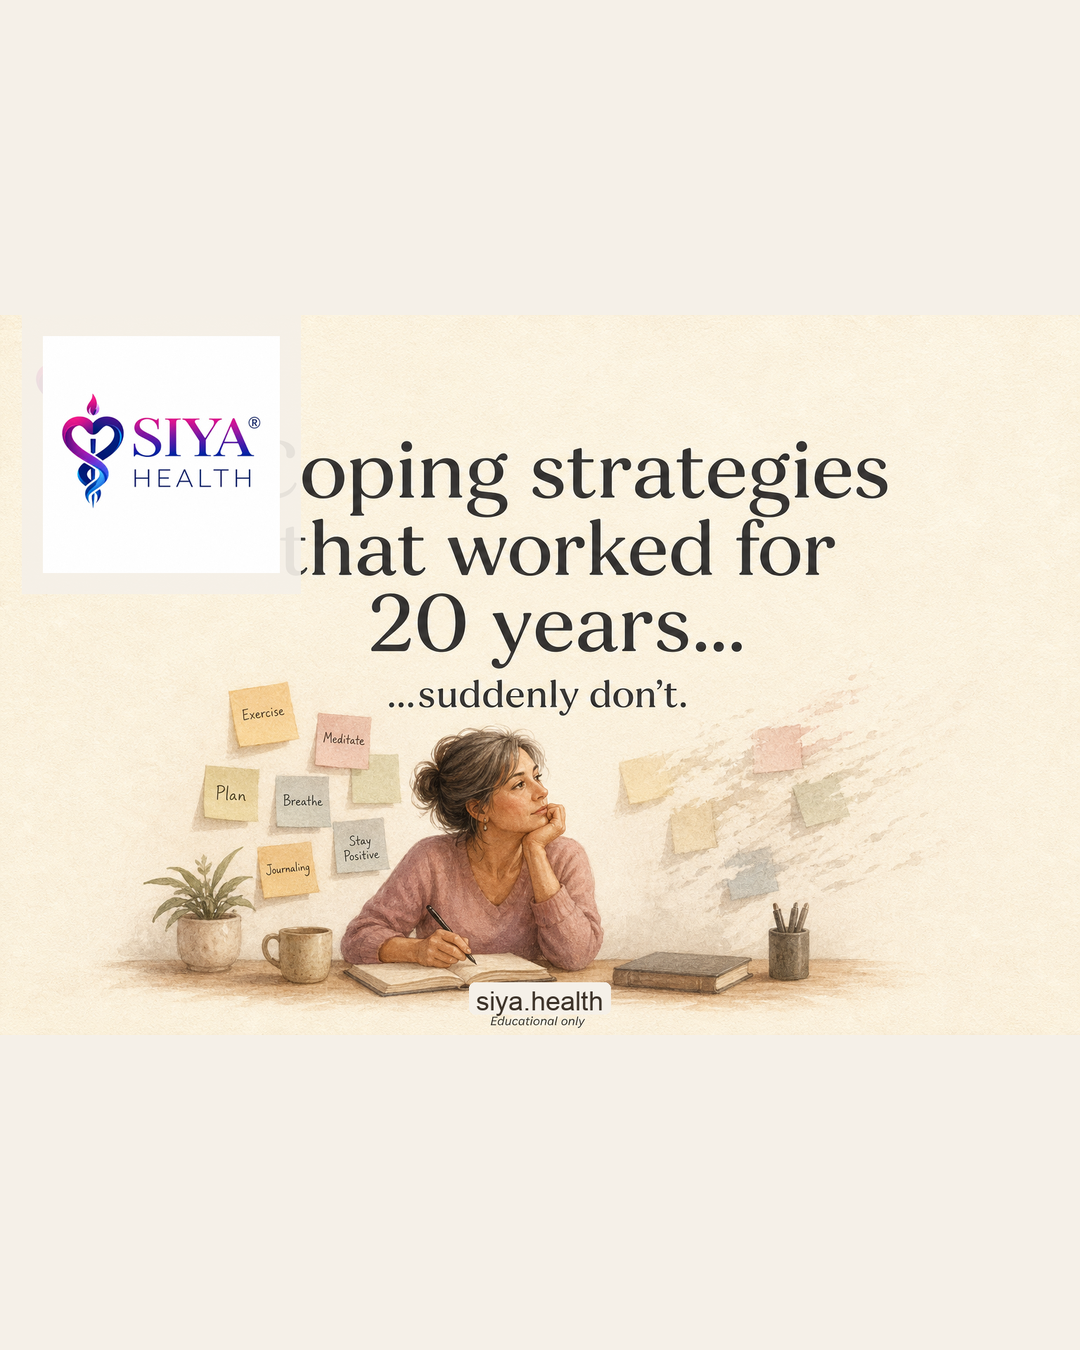
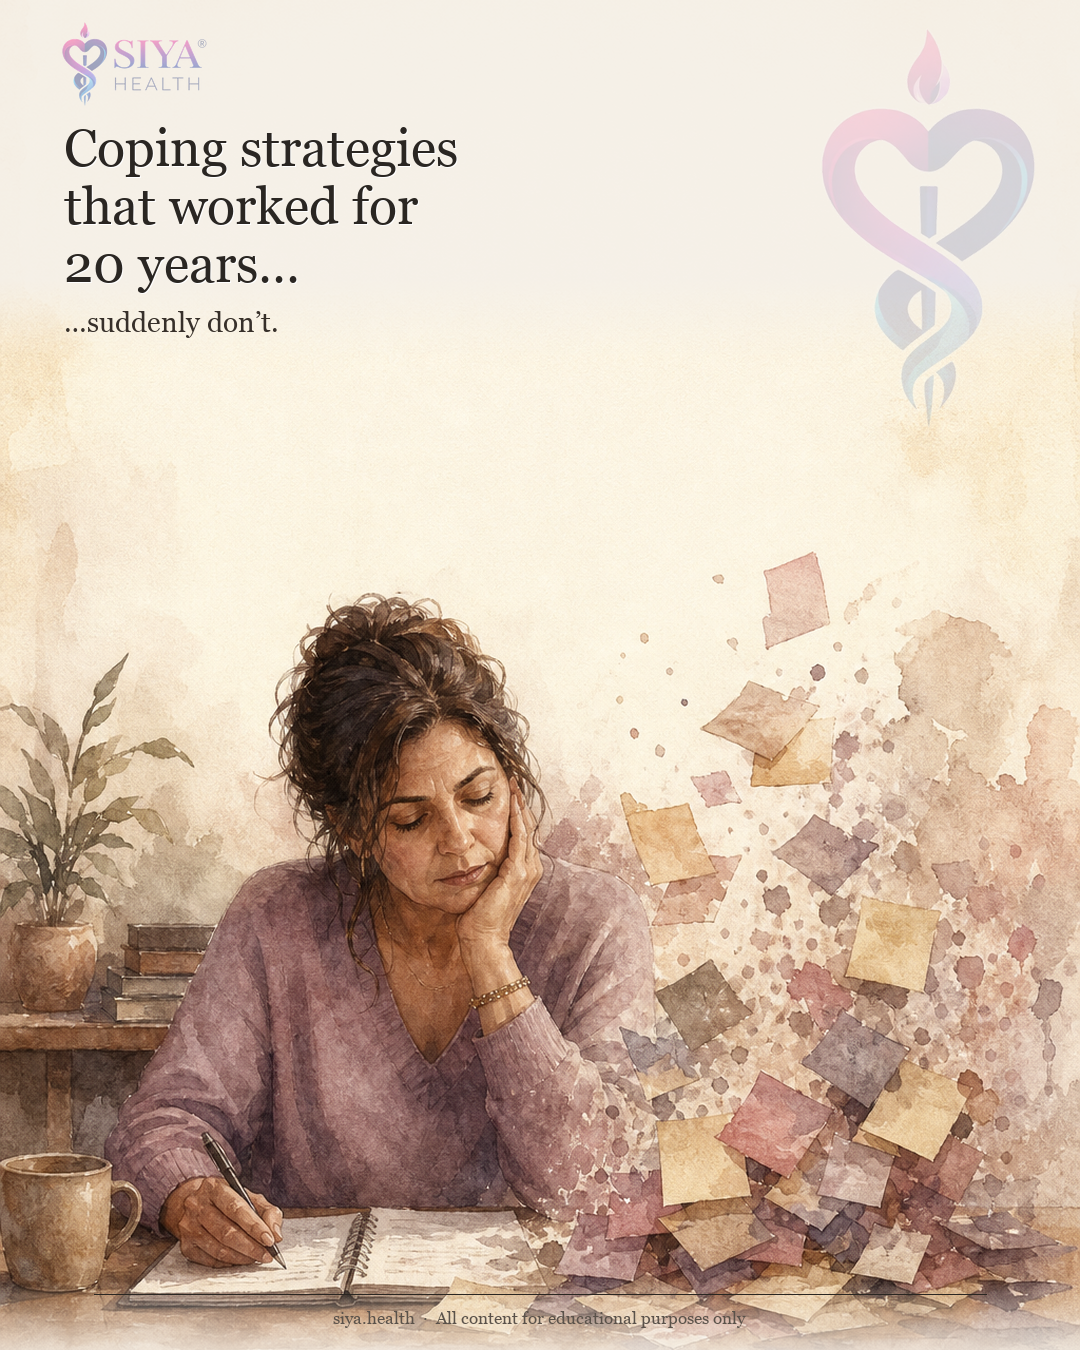
content(siya-health): WH-R-02 v2 — useful carousel + editorial usefulness gate
Require ≥1 evidence-based practical change on company/social; regenerate
IG slides with 14-day log → clinician iron/thyroid/sleep/mood ask.

diff --git a/apps/siya-health/brand/editorial-packs/WH-R-02/carousel.md b/apps/siya-health/brand/editorial-packs/WH-R-02/carousel.md
@@ -1,71 +1,72 @@
-# Instagram Carousel — WH-R-02
+# Instagram Carousel — WH-R-02 (v2 — useful)
 
-**Format:** 4:5 · 6 slides · warm editorial · Siya cream/soft earth tones · quiet logo corner · no stock clinic clichés
+**Format:** 4:5 · 6 slides · submerged logo · quiet footer  
+**Design:** `brand/INSTAGRAM-STATIC.md`  
+**Gate:** Recognition + explanation + **≥1 practical change** (Editorial Test)
+
+**Practical change (this pack):**  
+For 14 days, log sleep, heavy bleeding, and when fog is worst → bring the log to a clinician and ask to evaluate iron/ferritin, thyroid, sleep, and mood — not “stress” alone.
 
 ---
 
 ## Slide 1 — Hook
-**Copy (large):**
+**Copy:**
 Coping strategies that worked for 20 years…
+suddenly don’t.
 
-**Support (small):**
-…suddenly don’t.
-
-**Image prompt:** See `image-prompts.md` Slide 1
+**Support:** (none — let image carry)
 
 ---
 
-## Slide 2 — Recognition
+## Slide 2 — Recognition → useful frame
 **Copy:**
-“I used to hold everything in my head.”
+You’re not failing at adulting.
 
 **Support:**
-Now you walk into a room and forget why you’re there.
-
-**Image prompt:** Slide 2
+When planners, lists, and willpower stop working in your 40s, something in the system may have changed.
 
 ---
 
-## Slide 3 — Systems
+## Slide 3 — Explanation
 **Copy:**
-What if it’s not one department?
-
-**Support (list or nodes):**
-Sleep · Iron · Mood · Hormones · Attention
-
-**Image prompt:** Slide 3
-
----
-
-## Slide 4 — Contradiction
-**Copy:**
-Medicine is good at splitting humans into appointments.
+Midlife fog rarely has one cause.
 
 **Support:**
-Midlife rarely arrives that way.
-
-**Image prompt:** Slide 4
+Sleep · Iron · Mood · Hormones · Attention  
+can all move at once — so “try harder” often fails.
 
 ---
 
-## Slide 5 — Curiosity
+## Slide 4 — Practical change (part 1)
 **Copy:**
-Maybe the seams are just showing.
+Don’t add another planner first.
 
 **Support:**
-Not a character flaw. A systems question.
-
-**Image prompt:** Slide 5
+For 14 days, jot three things: hours slept, heavy bleeding (Y/N), and when fog hits hardest.
 
 ---
 
-## Slide 6 — Path (company CTA only)
+## Slide 5 — Practical change (part 2) ← the useful ask
+**Copy:**
+Bring that log to a clinician.
+
+**Support:**
+Ask them to check iron/ferritin, thyroid, sleep, and mood — not “stress” alone.  
+(Common reversible contributors to midlife brain fog.)
+
+---
+
+## Slide 6 — Path
 **Copy:**
 Women’s Midlife Health
 
 **Support:**
 Brain · Hormones · Metabolism  
-Start with Perimenopause & Brain Fog  
+Read Perimenopause & Brain Fog  
 siya.health/womens-midlife-health
 
-**Image prompt:** Slide 6
+---
+
+## Claim ladder
+Safe: pattern tracking; request evaluation of iron/thyroid/sleep/mood; systems framing.  
+Avoid: DIY stimulant dosing; HRT treats ADHD; hormones cause ADHD; guaranteed diagnosis.

diff --git a/apps/siya-health/brand/knowledge-pillars/EDITORIAL-TEST.md b/apps/siya-health/brand/knowledge-pillars/EDITORIAL-TEST.md
@@ -8,21 +8,35 @@ Before publishing anything, ask:
 
 1. **Does this improve a Knowledge Product?**
 2. **Does this help someone recognize themselves?**
-3. **Would we still be proud of this in three years?**
-4. **Does this teach something competitors don't?**
-5. **Does this build trust instead of attention?**
+3. **Is this useful — not just resonant?**
+4. **Does it include at least one practical change** someone can make (habit, question to ask a clinician, tracking step, or decision rule) grounded in **evidence-based medicine** / accepted clinical guidelines — without DIY dosing or overclaim?
+5. **Would we still be proud of this in three years?**
+6. **Does this teach something competitors don't?**
+7. **Does this build trust instead of attention?**
 
 If any answer is no — don't publish.
 
+**Usefulness rule (locked 2026-07-21):**  
+Recognition alone is not enough for company/social carousels and educational posts. Every piece must leave the reader with **≥1 concrete next step** they can act on. Vague inspiration (“trust the process,” “listen to your body”) without a specific action fails this test.
+
+Safe practical patterns:
+- Track X for N days, then bring it to a clinician  
+- Ask for evaluation of Y (labs/screens named carefully)  
+- Stop doing Z when A is happening; do W instead  
+- Read spoke → book Meet & Greet (company channels only)
+
+Never: DIY stimulant/HRT protocols, “hormones cause ADHD,” guaranteed diagnosis language.
+
 ---
 
-**Editorial slogan:** Recognition > Expertise
+**Editorial slogan:** Recognition > Expertise  
+**Company/social addendum:** Recognition without a useful next step is incomplete.
 
 **Emotional arc (default):**
 
 ```text
-Recognition → Curiosity → Explanation → Evidence → Treatment → Relationship
+Recognition → Curiosity → Explanation → Evidence → Practical change → Relationship
 ```
 
-Founder LinkedIn may stop at Curiosity / open question.  
-Company / social may continue gently toward Relationship (care).
+Founder LinkedIn may stop at Curiosity / open question (no CTA).  
+Company / social must include the practical change and may continue gently toward Relationship (care).

diff --git a/apps/siya-health/brand/editorial-packs/WH-R-02/instagram.md b/apps/siya-health/brand/editorial-packs/WH-R-02/instagram.md
@@ -1,6 +1,6 @@
 # Instagram — Caption + Hashtags
 
-**Status:** READY TO PUBLISH with carousel.md  
+**Status:** READY TO PUBLISH with carousel v2  
 **Link in bio / story:** https://siya.health/blog/perimenopause-brain-fog  
 **Also:** https://siya.health/womens-midlife-health
 
@@ -11,20 +11,16 @@
 Coping strategies that worked for 20 years…
 suddenly don’t.
 
-If you’re in your 40s and the systems that used to hold your life together feel unreliable—you’re not alone, and you’re not “bad at adulting.”
+If you’re in your 40s and the systems that used to hold your life together feel unreliable—you’re not “bad at adulting.” Midlife fog often sits at an intersection: sleep, iron, mood, hormones, attention.
 
-Midlife fog often sits at an intersection:
-sleep · hormones · iron · mood · attention
-
-Medicine likes departments.
-People don’t arrive that way.
+**One practical step:** For 14 days, jot sleep hours, heavy bleeding (Y/N), and when fog is worst. Bring that log to a clinician and ask to evaluate iron/ferritin, thyroid, sleep, and mood — not “stress” alone.
 
 Slide through → then read Women’s Midlife Health + Perimenopause & Brain Fog (link in bio).
 
-Educational only. Not a diagnosis.
+Educational only. Not a diagnosis. Individual care requires your clinician.
 
 ---
 
 ## Hashtags (mix; don’t dump all)
 
-#Perimenopause #BrainFog #WomensHealth #MidlifeHealth #SystemsMedicine #ADHDWomen #HormoneHealth #SiyaHealth
+#Perimenopause #BrainFog #WomensHealth #MidlifeHealth #SystemsMedicine #IronDeficiency #ThyroidHealth #ADHDWomen #HormoneHealth #SiyaHealth

diff --git a/apps/siya-health/brand/editorial-packs/WH-R-02/images/ready/README.md b/apps/siya-health/brand/editorial-packs/WH-R-02/images/ready/README.md
@@ -1,16 +1,16 @@
-# WH-R-02 Instagram carousel — READY TO POST
+# WH-R-02 Instagram carousel — READY TO POST (v2)
 
-Real Siya logo composited. Text burned into images. Domain on slides.
+Design: submerged logo + quiet footer (`brand/INSTAGRAM-STATIC.md`)
+Copy: useful arc with practical change (14-day log → clinician ask)
 
 | File | Content |
 |------|---------|
-| slide-01-ready.png | Coping strategies that worked for 20 years… |
-| slide-02-ready.png | I used to hold everything in my head. |
-| slide-03-ready.png | What if it's not one department? |
-| slide-04-ready.png | Medicine is good at splitting humans into appointments. |
-| slide-05-ready.png | Maybe the seams are just showing. |
-| slide-06-ready.png | Women's Midlife Health + siya.health/womens-midlife-health |
+| slide-01-ready.png | Coping strategies… suddenly don’t. |
+| slide-02-ready.png | You’re not failing at adulting. |
+| slide-03-ready.png | Midlife fog rarely has one cause. |
+| slide-04-ready.png | Don’t add another planner first. (14-day log) |
+| slide-05-ready.png | Bring that log to a clinician. (iron/thyroid/sleep/mood) |
+| slide-06-ready.png | Women’s Midlife Health + hub URL |
 
 Caption: ../instagram.md
-
-Also on Desktop: ~/Desktop/Siya-WH-R-02-READY/
+Desktop: ~/Desktop/Siya-WH-R-02-READY/

diff --git a/apps/siya-health/brand/INSTAGRAM-STATIC.md b/apps/siya-health/brand/INSTAGRAM-STATIC.md
@@ -44,12 +44,15 @@ siya.health  ·  All content for educational purposes only
 ### Copy clarity (carousel content)
 - Every headline must be understandable in one glance without prior context
 - Avoid insider metaphors unless the support line explains them immediately
-  - Example problem: “What if it’s not one department?” needs a plain-language support line or rewrite
+- **Company carousels must include ≥1 practical, evidence-aligned change** (see `EDITORIAL-TEST.md`)
+  - Fail: open-ended vibe with no next step
+  - Pass: track → ask clinician for X / do Y for N days
 
 ### Production workflow
-1. Agree design theme on **one** perfected static (header + footer + submerged logo)
-2. Lock theme → then batch carousels
-3. Do not regenerate full sets until the prototype is approved
+1. Agree design theme on **one** perfected static (header + footer + submerged logo) ✅
+2. Lock useful copy (recognition → explanation → practical change)
+3. Batch regenerate carousel with locked theme + copy
+4. Caption must restate the practical change
 
 ## Prototype file
 

diff --git a/apps/siya-health/brand/knowledge-pillars/CREATIVE-DIRECTOR.md b/apps/siya-health/brand/knowledge-pillars/CREATIVE-DIRECTOR.md
@@ -163,19 +163,21 @@ Every asset must answer:
 3. Which Knowledge Product?  
 4. Which spoke?  
 5. Journey stage + emotion?  
-6. What CTA (if any)? — founder LinkedIn answer is always **none**
+6. What **practical change** (company/social) — ≥1 evidence-based next step?  
+7. What CTA (if any)? — founder LinkedIn answer is always **none**
 
 Also pass [`EDITORIAL-TEST.md`](./EDITORIAL-TEST.md).
 
-If it strengthens nothing — don't make it.
+If it strengthens nothing — don't make it.  
+If company/social content only resonates but teaches no usable next step — don't make it.
 
 ---
 
 ## Writing style
 
 Warm · evidence-based · physician-led  
-Recognition before education · education before treatment · treatment before CTA  
-Trust > clicks
+Recognition before education · education before **practical change** · practical change before CTA  
+Trust > clicks · Useful > viral
 
 ---
 

diff --git a/apps/siya-health/brand/knowledge-pillars/OPERATING.md b/apps/siya-health/brand/knowledge-pillars/OPERATING.md
@@ -45,7 +45,9 @@ Moat: **systems medicine explained simply.**
 
 - `EDITORIAL-TEST.md`  
 - `CREATIVE-DIRECTOR.md`  
+- `INSTAGRAM-STATIC.md`  
 - Founder LinkedIn: never sells  
+- Company/social: useful + ≥1 evidence-based practical change  
 
 ## Slim prompt (post-deploy)
 
@@ -53,6 +55,7 @@ Moat: **systems medicine explained simply.**
 Publishing Insight from Women's Midlife Health.
 Use Editorial Pack format (Insight ID, not Week).
 Founder LinkedIn: Draft A voice, zero CTA.
-Company/social may link Product → Spoke → Meet & Greet.
-Pass Editorial Test. No DIY dosing / HRT-as-ADHD / overclaim.
+Company/social: Recognition → useful explanation → ≥1 practical change
+(evidence-based / guideline-aligned; no DIY dosing / HRT-as-ADHD / overclaim).
+Link Product → Spoke → Meet & Greet. Pass Editorial Test.
 ```

diff --git a/apps/siya-health/brand/editorial-packs/WH-R-02/medical-flags.md b/apps/siya-health/brand/editorial-packs/WH-R-02/medical-flags.md
@@ -6,7 +6,8 @@
 ## Safe in this pack
 - Coping collapse in 40s (recognition)
 - Systems may interact (sleep, iron, mood, hormones, attention)
-- Departments vs whole person (editorial)
+- 14-day symptom log (sleep, bleeding, fog timing) — practical self-observation
+- Asking clinician to evaluate iron/ferritin, thyroid, sleep, mood (common reversible contributors to midlife brain fog; not a diagnosis protocol)
 - Soft links to educational hub/spoke
 
 ## Do not add while publishing
@@ -15,6 +16,7 @@
 - HRT treats ADHD / fog
 - Guaranteed diagnosis language
 - Founder LinkedIn CTAs
+- DIY lab interpretation or self-treatment from the carousel
 
 ## If someone DMs medical questions
 Redirect to Meet & Greet / appropriate care path — don’t diagnose in comments.
